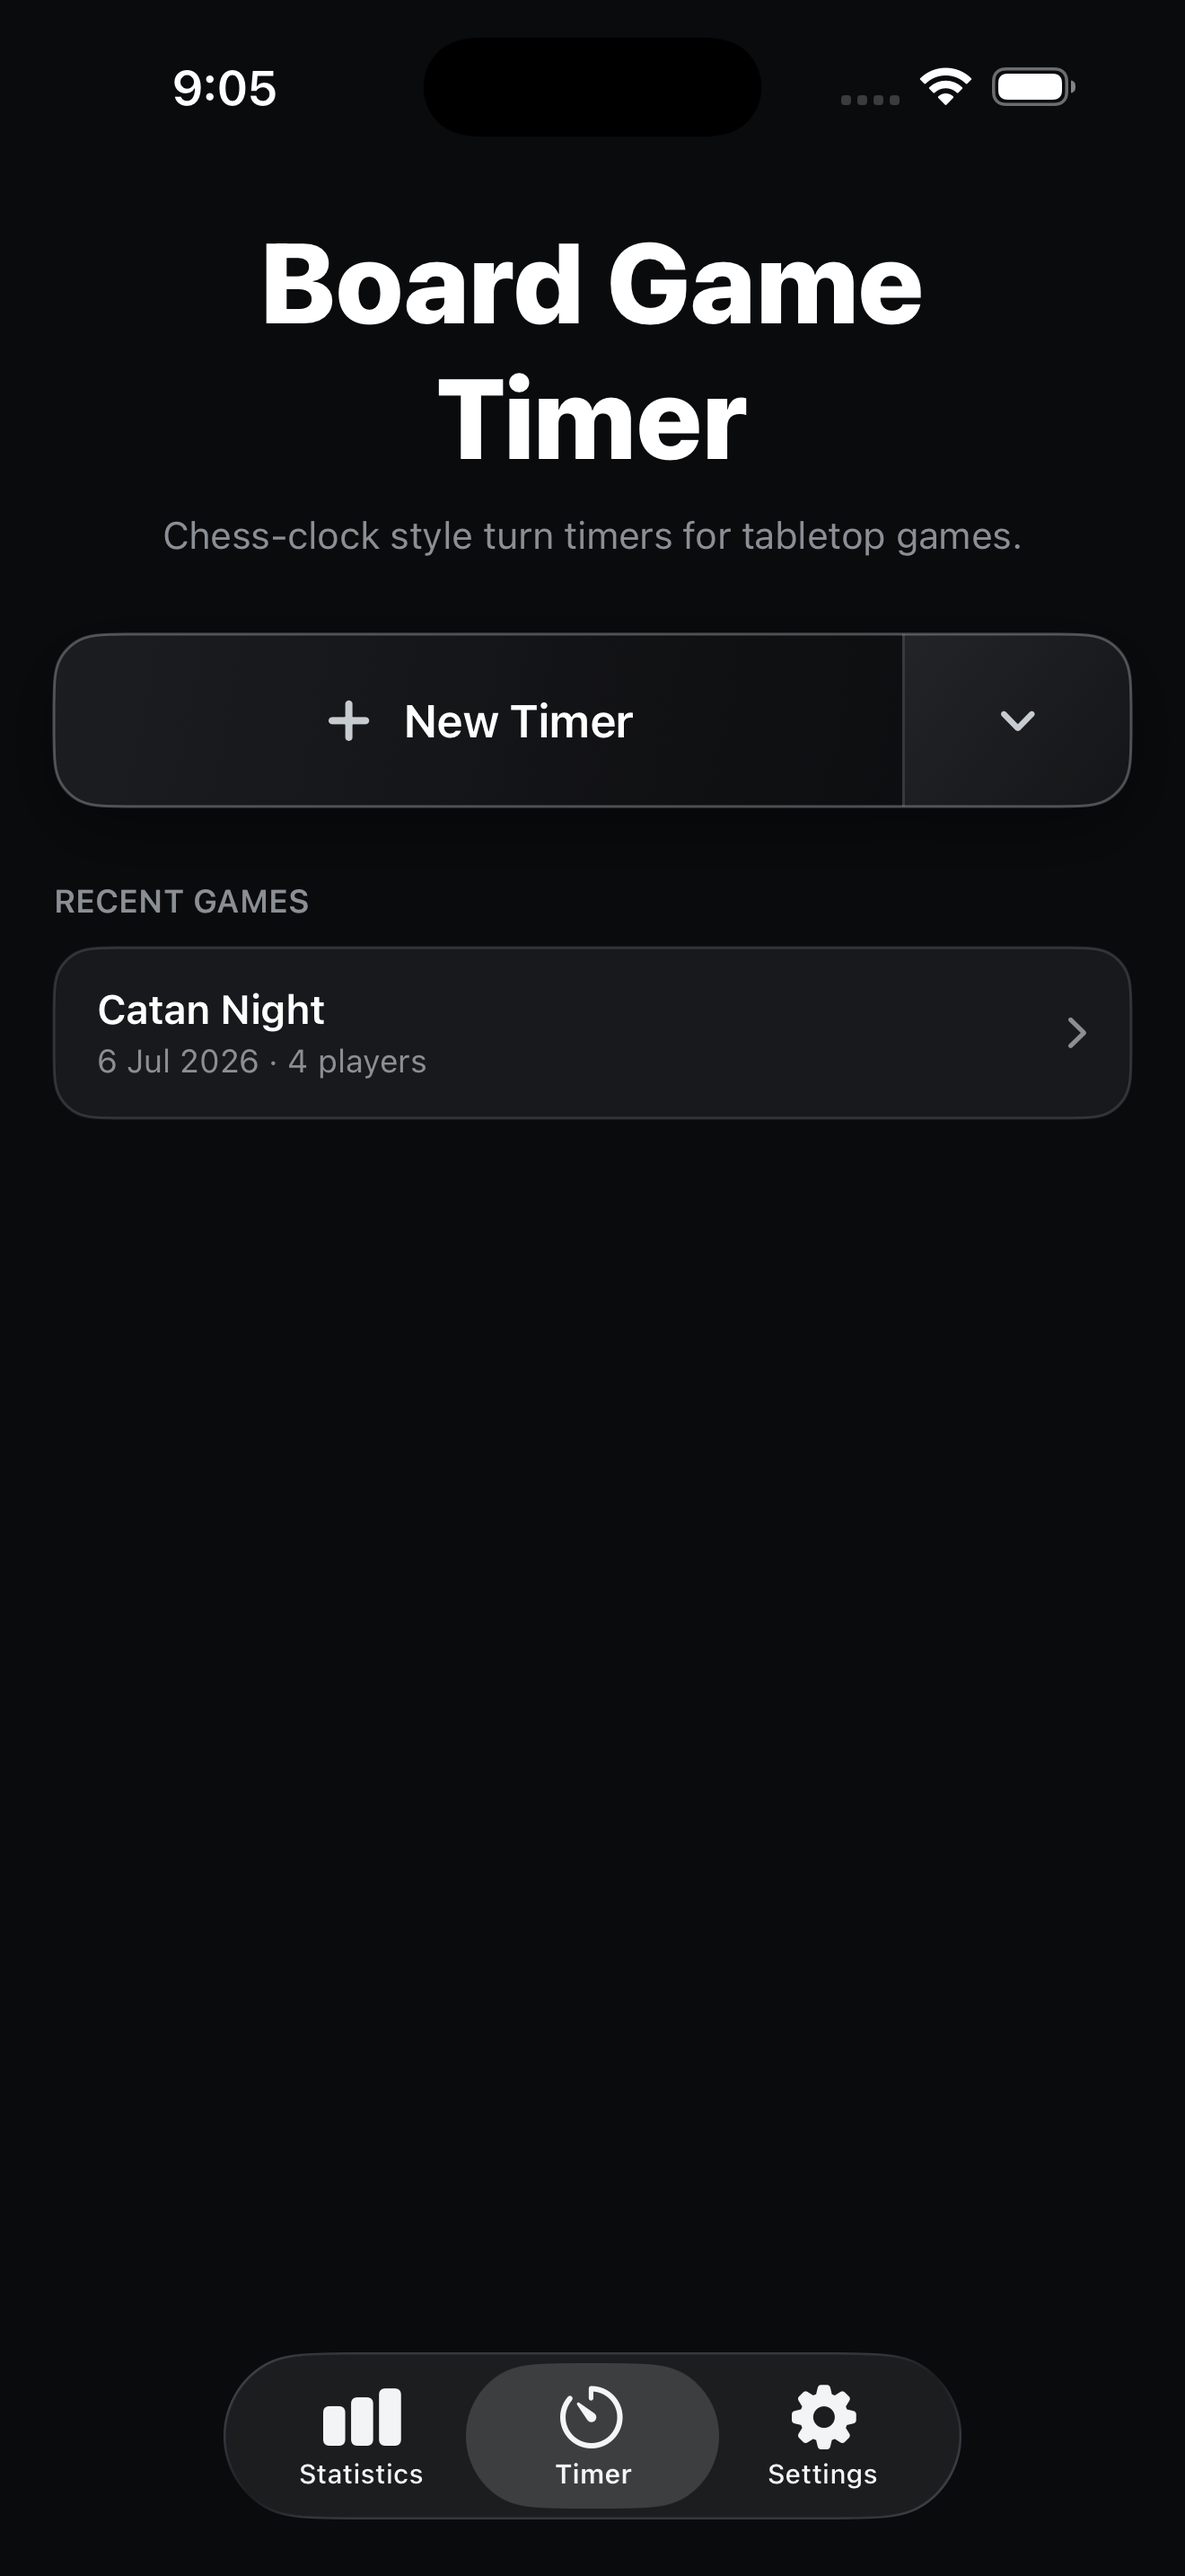
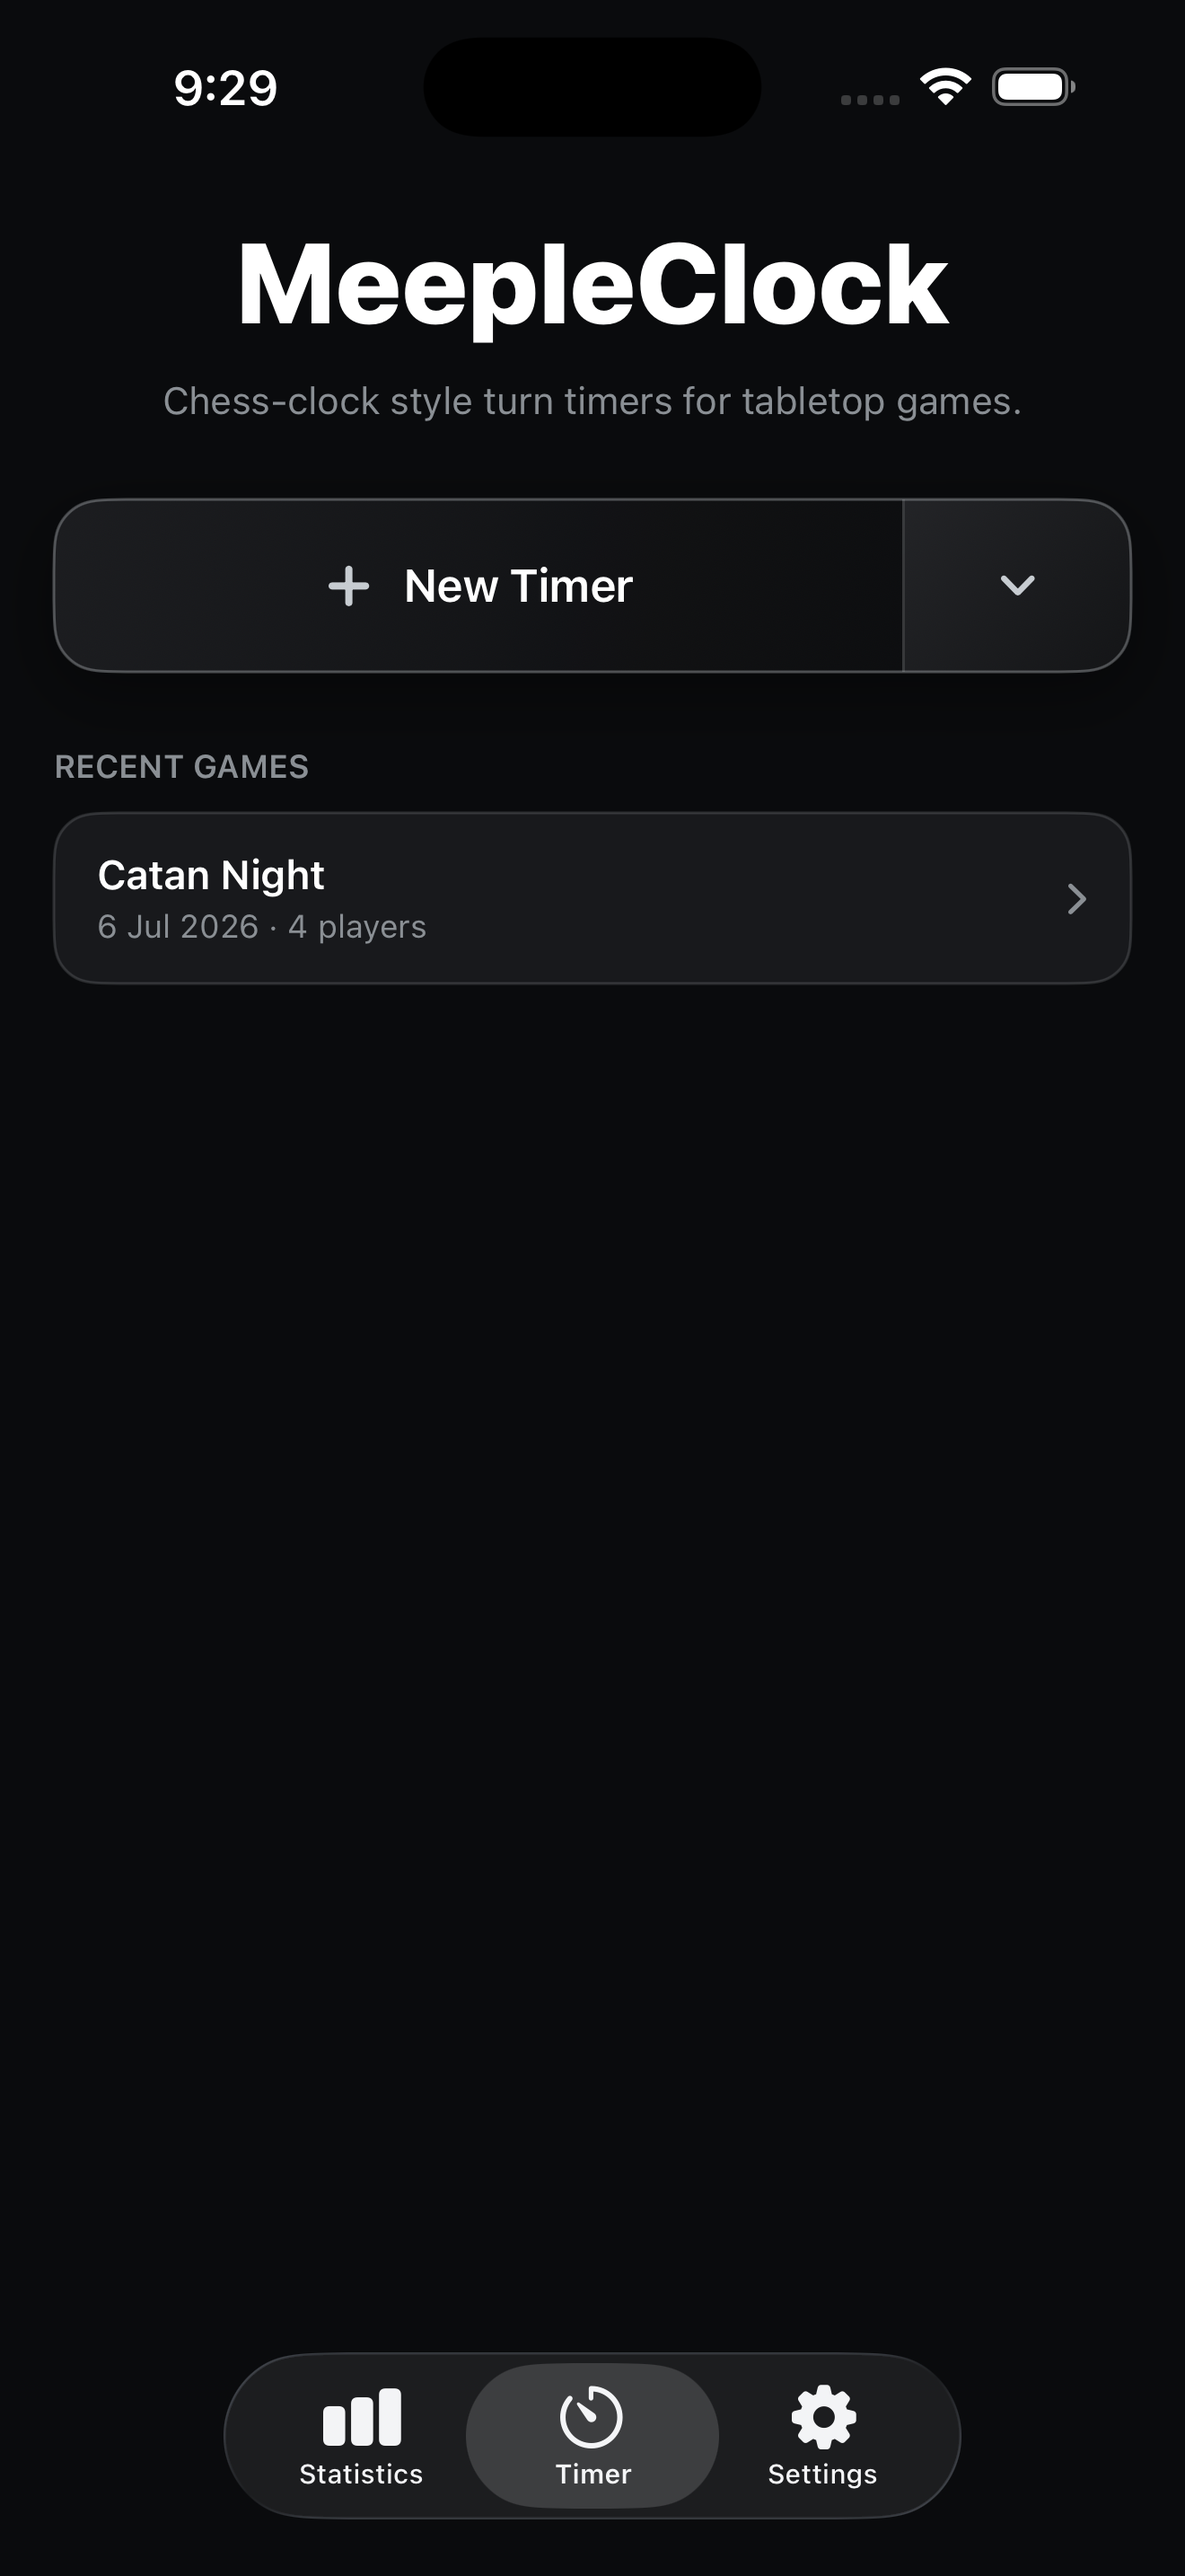
Rename the app to MeepleClock
"Board Game Timer" is already taken on the App Store, so the app's public name is
now MeepleClock (intended full store name: "MeepleClock: Board Game Timer").

- Home-screen name via INFOPLIST_KEY_CFBundleDisplayName (Debug + Release)
- Home tab title, splash screen, Settings "About" row, About screen title
- About description refreshed (also fixes the stale v1 "rotated labels" wording)
- README retitled; PLAN.md records the rename and why
- Marketing/Screenshots/01-home.png re-captured with the new title (1320x2868)

Internal identifiers (bundle id, Xcode target/product, repo name) intentionally
keep the old name — invisible to users, not worth the churn.

diff --git a/BoardGameTimer/Views/Splash/SplashScreenView.swift b/BoardGameTimer/Views/Splash/SplashScreenView.swift
@@ -51,7 +51,7 @@ struct SplashScreenView: View {
                 .rotationEffect(.degrees(logoRotationDegrees))
 
             // The app's name, in the same rounded/bold style used elsewhere in the app.
-            Text("Board Game Timer")
+            Text("MeepleClock")
                 .font(.system(.title, design: .rounded).weight(.bold))
                 .padding(.top, 24)
                 // Only visible once `showAppName` flips to true; fades in/out rather than
@@ -72,7 +72,7 @@ struct SplashScreenView: View {
                 .opacity(showCredit ? 1 : 0)
         }
         // Without this, the VStack only takes up as much width/height as its content
-        // actually needs (just wide enough for the "Board Game Timer" text) — the
+        // actually needs (just wide enough for the "MeepleClock" text) — the
         // background color below would then only fill THAT small box, leaving the real
         // screen underneath visible at the edges. `.frame(maxWidth: .infinity, maxHeight:
         // .infinity)` stretches the VStack to fill all available space first, so the

diff --git a/BoardGameTimer/Views/About/AboutView.swift b/BoardGameTimer/Views/About/AboutView.swift
@@ -25,10 +25,10 @@ struct AboutView: View {
                         .clipShape(RoundedRectangle(cornerRadius: 20))
                         .shadow(radius: 4)
 
-                    Text("Board Game Timer")
+                    Text("MeepleClock")
                         .font(.system(.title2, design: .rounded).weight(.bold))
 
-                    Text("A timer for tabletop board games with up to 8 players. Set the phone flat in the middle of the table, and every player gets their own wedge of a full-screen radial layout — name, icon, and running time rotated so it reads upright from that player's own seat.")
+                    Text("A chess-clock style board game timer for up to 6 players. Set the phone flat in the middle of the table: every player gets their own gradient wedge of a full-screen radial layout, and tapping your wedge passes the turn to the next player.")
                         .font(.system(.subheadline, design: .rounded))
                         .foregroundStyle(.secondary)
                         .multilineTextAlignment(.center)

diff --git a/BoardGameTimer/Views/Settings/SettingsView.swift b/BoardGameTimer/Views/Settings/SettingsView.swift
@@ -120,7 +120,7 @@ struct SettingsView: View {
                         AboutView()
                     } label: {
                         HStack {
-                            Text("About Board Game Timer")
+                            Text("About MeepleClock")
                                 .font(.system(size: 16, weight: .medium))
                                 .foregroundStyle(.white)
                             Spacer()

diff --git a/BoardGameTimer/Views/Home/TimerHomeView.swift b/BoardGameTimer/Views/Home/TimerHomeView.swift
@@ -33,7 +33,7 @@ struct TimerHomeView: View {
             VStack(spacing: 28) {
                 // --- Title block ---
                 VStack(spacing: 10) {
-                    Text("Board Game\nTimer")
+                    Text("MeepleClock")
                         .font(.system(size: 42, weight: .heavy))
                         .multilineTextAlignment(.center)
                         .foregroundStyle(.white)

diff --git a/README.md b/README.md
@@ -1,11 +1,12 @@
-# Board Game Timer
+# MeepleClock
 
-<img src="BoardGameTimer/Assets.xcassets/AppIconPreview.imageset/AppIconPreview.png" width="100" height="100" alt="Board Game Timer app icon: a dark four-color radial pie with a silver-ringed clock in the center" align="left">
+<img src="BoardGameTimer/Assets.xcassets/AppIconPreview.imageset/AppIconPreview.png" width="100" height="100" alt="MeepleClock app icon: a dark four-color radial pie with a silver-ringed clock in the center" align="left">
 
-A native SwiftUI iOS app for timing tabletop board games with up to 6 players —
-chess-clock style. Set the phone flat in the middle of the table: every player gets their
-own gradient wedge of a full-screen radial layout, tapping your own wedge passes the turn
-clockwise, and a per-turn time limit calls out slowpokes with a red overtime warning.
+**MeepleClock: Board Game Timer** — a native SwiftUI iOS app for timing tabletop board
+games with up to 6 players, chess-clock style. Set the phone flat in the middle of the
+table: every player gets their own gradient wedge of a full-screen radial layout, tapping
+your own wedge passes the turn clockwise, and a per-turn time limit calls out slowpokes
+with a red overtime warning.
 
 <br clear="left">
 

diff --git a/PLAN.md b/PLAN.md
@@ -586,6 +586,11 @@ full-bleed pie, inset from the edges per the safe-area pitfall noted in Section 
 
 ## V2 Redesign (imported from Claude Design)
 
+**Naming note (July 2026):** the app's public name is **MeepleClock** (full App Store
+name "MeepleClock: Board Game Timer") — "Board Game Timer" was already taken on the App
+Store. Internal identifiers (bundle id `com.ozsoffy.boardgametimer`, Xcode target, repo
+name) deliberately keep the old name.
+
 The app's UI was rebuilt against an approved Claude Design prototype
 ("Board Game Timer.dc.html" in the user's Claude Design project) — a dark-only visual
 language (near-black `#0A0B0D` backgrounds, silver accents, ten fixed meeple gradients)
